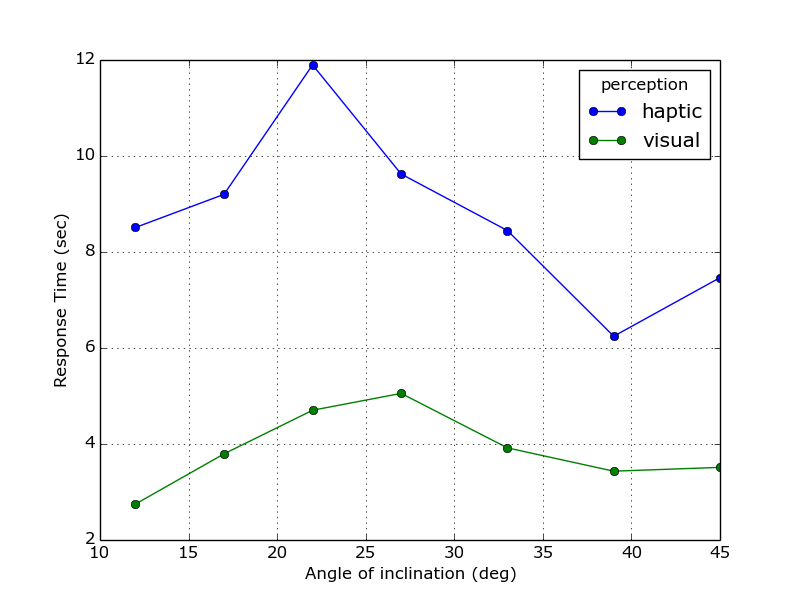
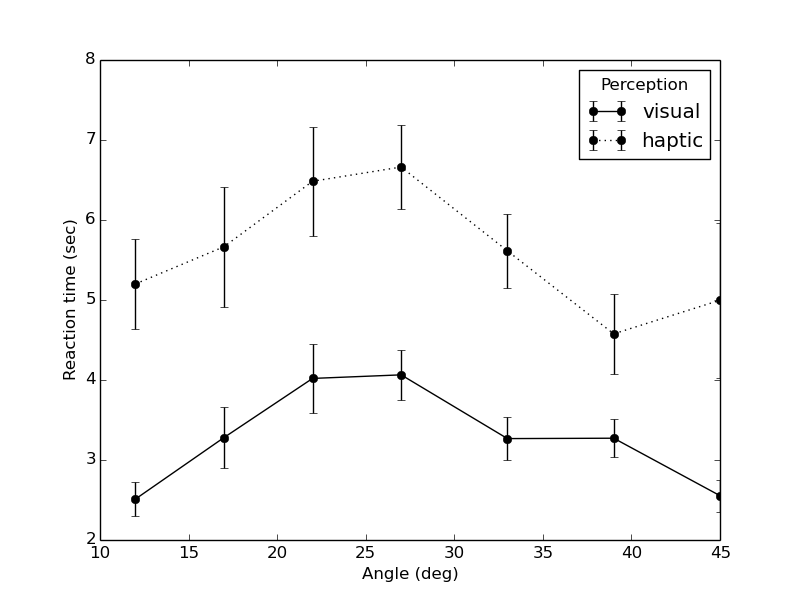
Better plots

diff --git a/plots.py b/plots.py
@@ -1,5 +1,6 @@
 #!/usr/bin/env python3
 import matplotlib.pyplot as plt
+import numpy as np
 from ramp import RampExperiment
 
 data = RampExperiment.load_experiment('exp1.dat').data
@@ -16,36 +17,37 @@ data['angle'] = [angle_map[angle] for angle in data['angle']]
 # http://stackoverflow.com/questions/20625982/split-apply-combine-on-pandas-timedelta-column
 data['rt'] = [10**-9 * float(rt) for rt in data['rt']]
 
-means = data.groupby(['angle', 'perception']).mean()
-means['can step'] *= 100
-means = means.reset_index()
+# remove subject 4
+data = data.ix[1:3].append(data.ix[5:])
+
+# SEM function
+sem = lambda x: np.std(x, ddof=1) / np.sqrt(len(x))
+sem.__name__ = 'sem'
+
+# split-apply-combine
+summary = data.groupby(['angle', 'perception']).aggregate([np.mean, sem])
+summary['can step'] *= 100
 
 
-def make_plot(values, ylabel, filename):
-    p = means.pivot(index='angle', columns='perception', values=values).plot(style='-o')
-    plt.xlabel('Angle of inclination (deg)')
-    plt.ylabel(ylabel)
-    p.get_figure().savefig(filename)
+def make_plot(df):
+    haptic = df.xs('haptic', level='perception')
+    visual = df.xs('visual', level='perception')
+    plt.errorbar(visual.index, visual['mean'], yerr=visual['sem'], fmt='k-o', label='visual')
+    plt.hold(True)
+    plt.errorbar(haptic.index, haptic['mean'], yerr=haptic['sem'], fmt='k:o', label='haptic')
+    plt.xlabel('Angle (deg)')
+    plt.legend(title='Perception')
+    plt.hold(False)
 
 
-make_plot('can step', 'Percent "Yes"', 'can_step.png')
-make_plot('confidence', 'Confidence Judgment', 'confidence.png')
-make_plot('rt', 'Response Time (sec)', 'rt.png')
+make_plot(summary['can step'])
+plt.ylabel('Proportion "yes"')
+plt.savefig('can_step.png')
 
-# Remove outliers
-z = lambda x: (x - x.mean()) / x.std()
-data['rt_z'] = data.groupby(['angle', 'perception'])['rt'].transform(z)
-data['rt'][abs(data['rt_z']) > 3] = None
+make_plot(summary['confidence'])
+plt.ylabel('Confidence report')
+plt.savefig('confidence.png')
 
-means = data.groupby(['angle', 'perception']).mean().reset_index()
-
-make_plot('rt', 'Response Time (sec)', 'rt_rm_outliers.png')
-
-# Remove subject4
-means = data.ix[1:3].append(data.ix[5:10]).groupby(['angle', 'perception']).mean()
-means['can step'] *= 100
-means = means.reset_index()
-
-make_plot('can step', 'Percent "Yes"', 'can_step_rm4.png')
-make_plot('confidence', 'Confidence Judgment', 'confidence_rm4.png')
-make_plot('rt', 'Response Time (sec)', 'rt_rm4.png')
+make_plot(summary['rt'])
+plt.ylabel('Reaction time (sec)')
+plt.savefig('rt.png')
